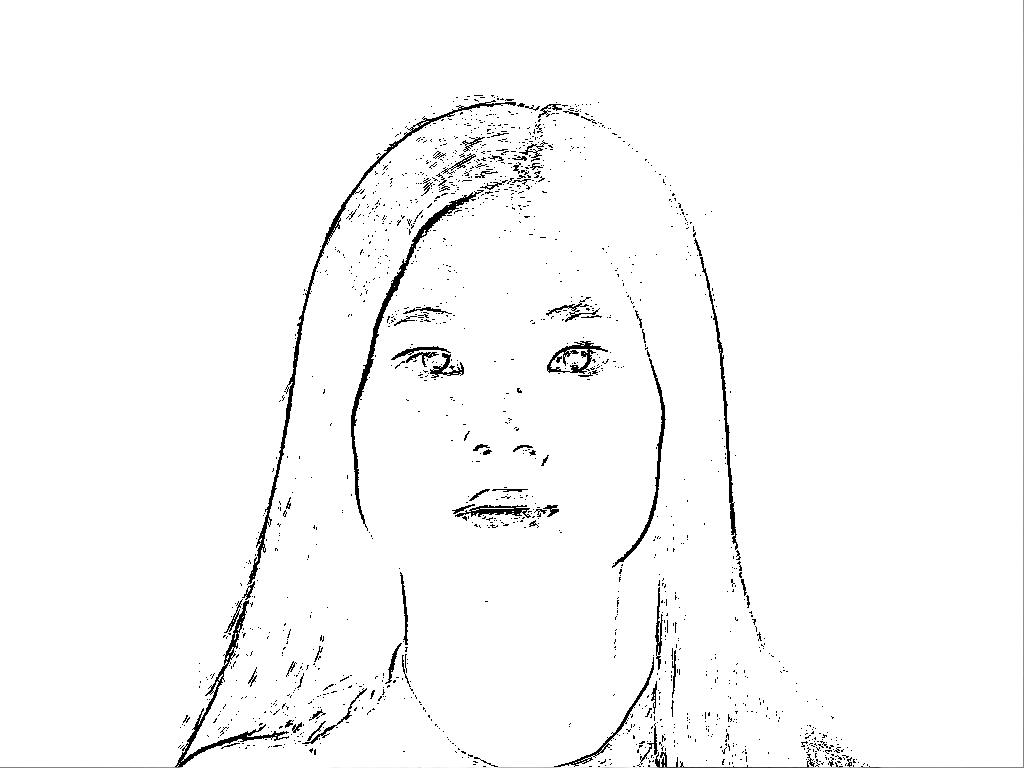
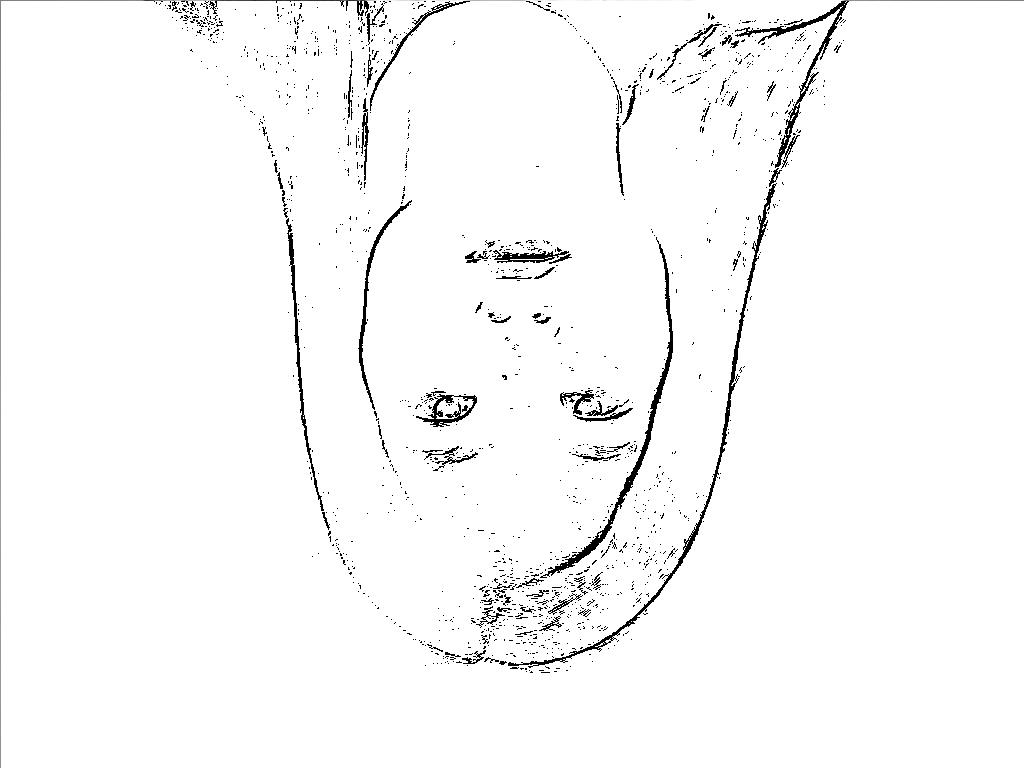
vectorize stuff ##

diff --git a/OCVenv.py b/OCVenv.py
@@ -1,5 +1,9 @@
 from PIL import Image
+from scipy import misc
+from skimage import color
+from skimage import measure
 import sys,os
+import matplotlib.pyplot as plt
 
 def sketch(img, threshold):
     if threshold < 0: threshold = 0
@@ -33,4 +37,11 @@ elif len(sys.argv) == 3:
     threshold = int(sys.argv[2])
 img = Image.open(path)
 img = sketch(img, threshold)
-img.save('layout.jpg', 'JPEG')
+img.rotate(180).save('layout.jpg', 'JPEG')
+
+simg = misc.imread("layout.jpg")
+gsimg = color.colorconv.rgb2gray(simg)
+contours = measure.find_contours(gsimg,0.8)
+for n,contour in enumerate(contours):
+    plt.plot(contour[:, 1], contour[:, 0], linewidth=2)
+plt.show()
